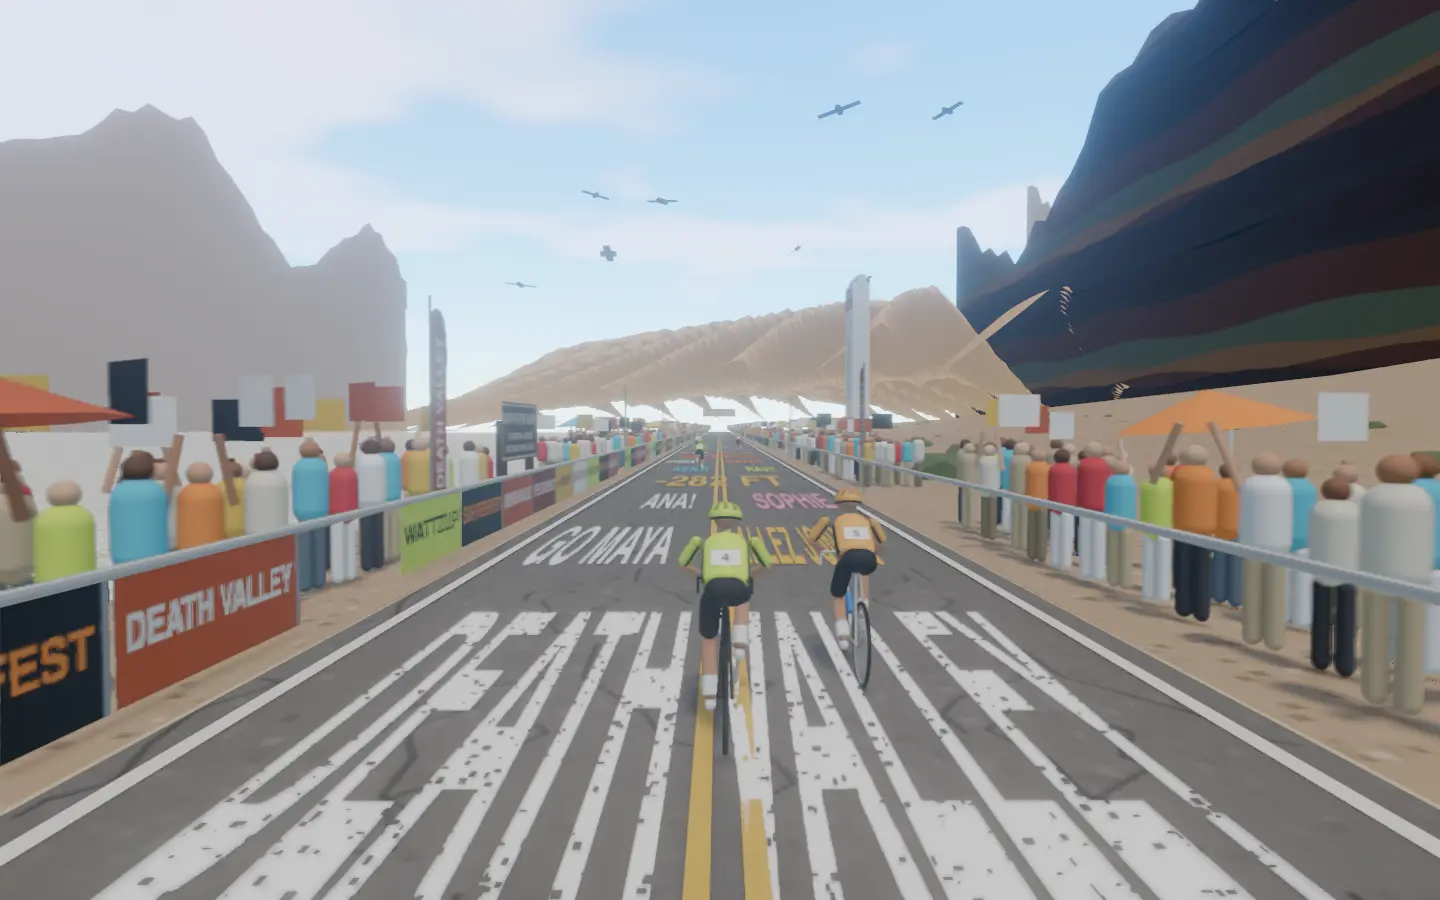
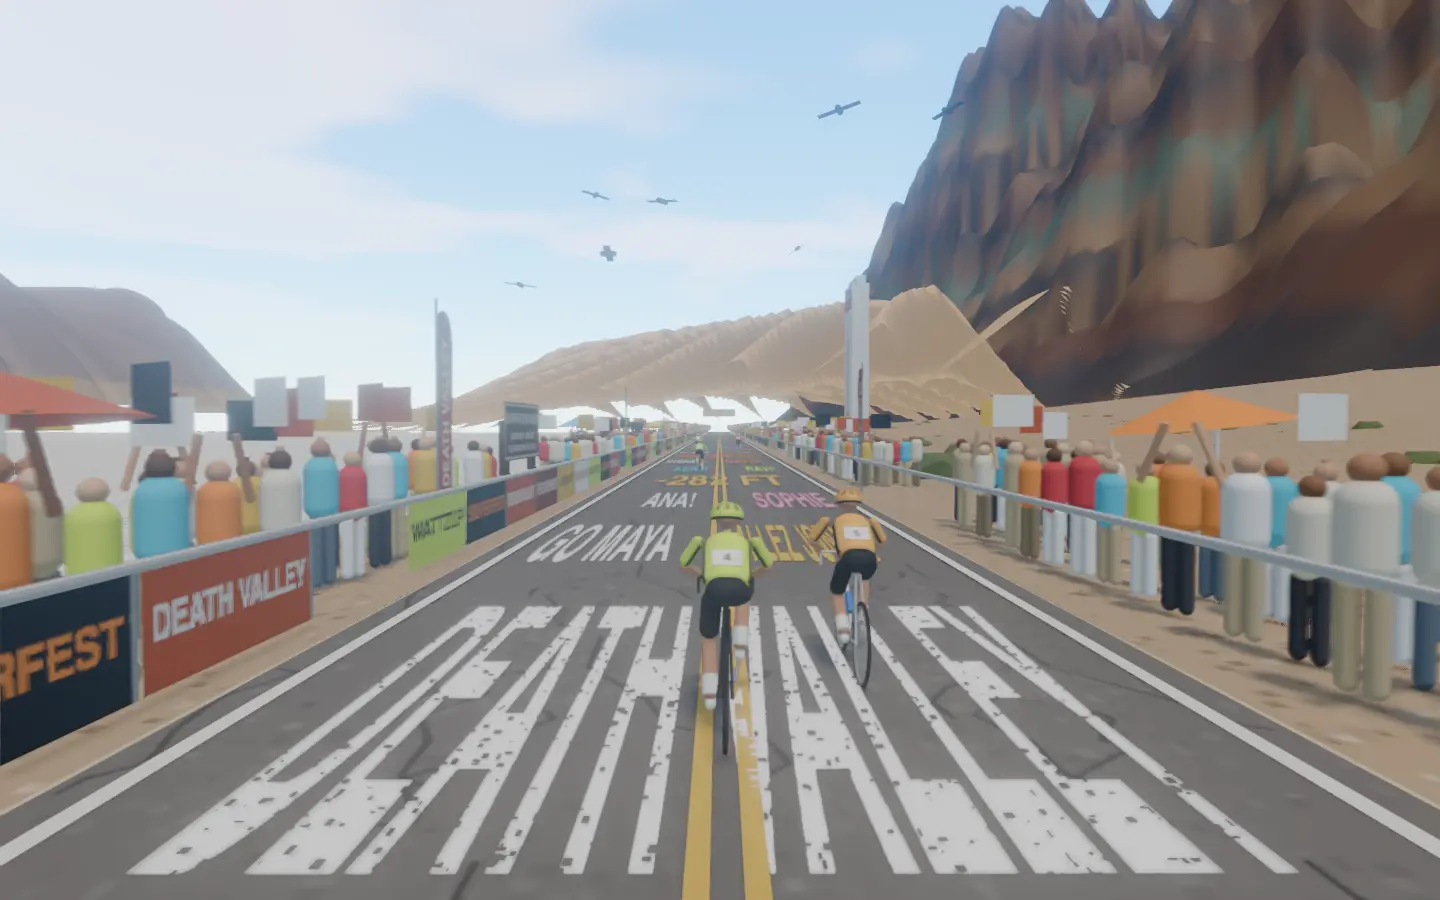
Model Death Valley's ranges as terrain, not silhouettes
The Black Mountains and the Panamint Range become heightfields with
ridges, canyons, rock banded by height and snow on Telescope Peak.

diff --git a/frontend/projects/wattzup/src/app/core/world-deathvalley.ts b/frontend/projects/wattzup/src/app/core/world-deathvalley.ts
@@ -516,47 +516,66 @@ export class DeathValleyStreet implements SceneStreet {
       shape.lineTo(to, -20);
       return new ShapeGeometry(shape);
     };
-    // The Black Mountains, running along the right from behind the rider to far ahead.
-    const strata = this.track(strataTexture());
-    strata.wrapS = RepeatWrapping;
-    strata.wrapT = RepeatWrapping;
-    strata.repeat.set(1 / 700, 1 / 420);
-    const black = range(-1200, 4200, 620, 420);
-    black.rotateY(Math.PI / 2);
-    black.translate(1100, -4, 800);
-    const near = hazedMaterial(this.disposables, haze, 0xd8ccc0, 0.3, {
-      map: strata,
-      emissiveMap: strata,
-      emissive: new Color(0x8a7a6a),
-      emissiveIntensity: 0.5,
-      side: DoubleSide,
-    });
+    // The Black Mountains along the right: a steep front climbing from the fans to ridges near
+    // 1,000 m, cut by canyons, its rock banded in charcoal, rust, ochre and the odd green.
+    const strata = [
+      '#3a3230',
+      '#5a3a2a',
+      '#7a5a3a',
+      '#4a4038',
+      '#8a6a48',
+      '#5a6a58',
+      '#6a4a34',
+    ].map((hex) => new Color(hex));
+    const black = this.massif(
+      [980, -1300],
+      [1600, 4200, 110, 210],
+      (x, z) => {
+        const front = smooth((x - 180) / 560);
+        const ridge = 0.62 + 0.22 * Math.sin(z / 410) + 0.16 * Math.sin(z / 137 + 1.3);
+        const canyon = (1 - Math.abs(Math.sin(z / 95 + Math.sin(x / 140) * 0.9))) ** 6;
+        const rough = 0.04 * Math.sin(x / 23 + z / 31) + 0.03 * Math.sin(z / 17 - x / 41);
+        return front * 1050 * (ridge - 0.45 * canyon * (1 - front * 0.5) + rough);
+      },
+      (y, z) => strata[Math.floor((y + 40 * Math.sin(z / 230) + 400) / 55) % strata.length]!,
+    );
     // A second, higher wall behind, paler for its distance.
     const back = range(-1200, 6200, 1300, 520);
     back.rotateY(Math.PI / 2);
-    back.translate(2200, -4, 800);
-    this.disposables.push(black, back);
-    h.add(new Mesh(black, near), new Mesh(back, this.distant(haze, 0x8a7a78, 0.5)));
-    // The Panamint Range across the basin on the left, Telescope Peak rising above it.
-    const panamint = range(-1200, 14000, 900, 500, 2000);
-    panamint.rotateY(Math.PI / 2);
-    panamint.translate(-2400, -4, 1200);
-    const snow = new Shape();
-    snow.moveTo(1640, 1500);
-    snow.lineTo(1860, 1880);
-    snow.lineTo(2000, 2050);
-    snow.lineTo(2140, 1880);
-    snow.lineTo(2380, 1500);
-    snow.lineTo(2160, 1640);
-    snow.lineTo(2000, 1560);
-    snow.lineTo(1840, 1640);
-    const cap = new ShapeGeometry(snow);
-    cap.rotateY(Math.PI / 2);
-    cap.translate(-2390, -4, 1200);
-    this.disposables.push(panamint, cap);
+    back.translate(2400, -4, 800);
+    this.disposables.push(back);
     h.add(
-      new Mesh(panamint, this.distant(haze, 0x9a8a9e, 0.45)),
-      new Mesh(cap, this.distant(haze, 0xffffff, 0.15)),
+      new Mesh(
+        black,
+        hazedMaterial(this.disposables, haze, 0xffffff, 0.12, { vertexColors: true }),
+      ),
+      new Mesh(back, this.distant(haze, 0x8a7a78, 0.5)),
+    );
+    // The Panamint Range across the basin on the left: fans rising to a long crest, Telescope
+    // Peak lifted above it, its summit snowfields white.
+    const rock = new Color(0x9a8a8e);
+    const scree = new Color(0xb8a48a);
+    const snow = new Color(0xffffff);
+    const panamint = this.massif(
+      [-4600, -2000],
+      [2600, 7000, 120, 220],
+      (x, z) => {
+        const rise = smooth((-x - 3000) / 1400);
+        const crest = 1050 + 200 * Math.sin(z / 620) + 90 * Math.sin(z / 210 + 2);
+        const peak = 700 * Math.exp(-(((z + 900) / 650) ** 2)) * smooth((-x - 3700) / 700);
+        const canyon = (1 - Math.abs(Math.sin(z / 160 + Math.sin(x / 210)))) ** 6;
+        return rise * (crest - 380 * canyon * (1 - rise * 0.6)) + peak;
+      },
+      (y, z) => {
+        if (y > 1480 + 50 * Math.sin(z / 47)) return snow;
+        return y < 260 ? scree : rock;
+      },
+    );
+    h.add(
+      new Mesh(
+        panamint,
+        hazedMaterial(this.disposables, haze, 0xffffff, 0.4, { vertexColors: true }),
+      ),
     );
     // The dunes ahead, rising out of the heat at the end of the road: transverse ridges driven by
     // the wind, each a long gentle windward slope up to a knife-edge crest and a steep slip face
@@ -611,6 +630,35 @@ export class DeathValleyStreet implements SceneStreet {
     h.add(new Mesh(sheen, this.mirage));
   }
 
+  /**
+   * A mountain block as a heightfield `width` by `depth` metres centred on (x, z), with `across`
+   * by `along` cells: `height` raises each vertex at its place beside the road, and `colour`
+   * paints it by its height, so the rock bands and the snow follow the terrain.
+   */
+  private massif(
+    [cx, cz]: readonly [number, number],
+    [width, depth, across, along]: readonly [number, number, number, number],
+    height: (x: number, z: number) => number,
+    colour: (y: number, z: number) => Color,
+  ): PlaneGeometry {
+    const field = new PlaneGeometry(width, depth, across, along);
+    field.rotateX(-Math.PI / 2);
+    field.translate(cx, 0, cz);
+    const position = field.getAttribute('position');
+    const paint = new Float32Array(position.count * 3);
+    for (let i = 0; i < position.count; i++) {
+      const x = position.getX(i);
+      const z = position.getZ(i);
+      const y = Math.max(0, height(x, z));
+      position.setY(i, y - 4);
+      colour(y, z).toArray(paint, i * 3);
+    }
+    field.setAttribute('color', new BufferAttribute(paint, 3));
+    field.computeVertexNormals();
+    this.disposables.push(field);
+    return field;
+  }
+
   /** A far range's silhouette: its colour hazed by distance, lit evenly so no face falls dark. */
   private distant(haze: Color, hex: number, amount: number): MeshStandardMaterial {
     const material = hazedMaterial(this.disposables, haze, hex, amount, { side: DoubleSide });
@@ -663,25 +711,6 @@ function gravelTexture(): CanvasTexture {
       g.fillStyle = random() < 0.5 ? 'rgba(70,50,36,0.55)' : 'rgba(240,226,200,0.6)';
       const r = 1 + random() * 2.5;
       g.fillRect(random() * 128, random() * 128, r, r * 0.8);
-    }
-  });
-}
-
-/** The Black Mountains' rock: bands of charcoal, rust, ochre and the odd green of Artist's Palette. */
-function strataTexture(): CanvasTexture {
-  return canvasTexture(256, 256, (g) => {
-    const bands = ['#3a3230', '#5a3a2a', '#7a5a3a', '#4a4038', '#8a6a48', '#5a6a58', '#3a2a24'];
-    const random = seeded(6461);
-    for (let y = 0; y < 256;) {
-      const tall = 8 + random() * 28;
-      g.fillStyle = bands[Math.floor(random() * bands.length)]!;
-      g.beginPath();
-      g.moveTo(0, y);
-      for (let x = 0; x <= 256; x += 32) g.lineTo(x, y + Math.sin(x / 40 + y) * 6);
-      g.lineTo(256, y + tall + 8);
-      g.lineTo(0, y + tall + 8);
-      g.fill();
-      y += tall;
     }
   });
 }
@@ -750,4 +779,10 @@ function mirageTexture(): CanvasTexture {
     g.fillStyle = along;
     g.fillRect(0, 0, 64, 256);
   });
+}
+
+/** Eases from 0 below t = 0 up to 1 above t = 1. */
+function smooth(t: number): number {
+  const u = Math.min(1, Math.max(0, t));
+  return u * u * (3 - 2 * u);
 }

diff --git a/docs/class-worlds.md b/docs/class-worlds.md
@@ -67,7 +67,7 @@ Every class in `frontend/public/classes.json`, with its World Ride scene. Render
 | 61 | 20 Minute Cardio: Lose Weight Fast | Santa Monica Pier | 80% | The beach bike path winds across the golden sand of Santa Monica toward the pier beneath a line of palms, past painted lifeguard towers and the surfers riding the breakers below the pilings, as the Pacific Park Ferris wheel turns over the pier in the late afternoon sun. The three-minute warm-up rolls past the first lifeguard towers, the long efforts of two and three minutes push along the sand under the palms, and the one-minute and half-minute surges sprint for the pier with the easy minutes spun beside the surf. |
 | 62 | 20 Minute HIIT | Edinburgh Fringe | 78% | The Royal Mile packed with street performers and posters in August festival season. |
 | 63 | 20 Min Cardio Spin Bike Workout | Lake Louise (concept) |  | Turquoise glacial lake beneath Rocky Mountain peaks; an easy shoreline road in Banff. |
-| 64 | Sufferfest 20 Minute Session | Death Valley | 78% | Badwater Road runs below sea level across the floor of Death Valley in the blazing midday heat, the white salt flats of Badwater Basin glaring on the left beneath the Panamint Range and the dark Black Mountains rising on the right, toward golden dunes shimmering in the heat haze. The five-minute warm-up rolls past the salt pans at 282 feet below sea level, the half-minute and one-minute surges attack the shimmer over the flats, and the effort of two and a quarter minutes grinds toward the dunes before the two-minute cool-down spins out past the giant thermometer. |
+| 64 | Sufferfest 20 Minute Session | Death Valley | 80% | Badwater Road runs below sea level across the floor of Death Valley in the blazing midday heat, the white salt flats of Badwater Basin glaring on the left beneath the Panamint Range and the dark Black Mountains rising on the right, toward golden dunes shimmering in the heat haze. The five-minute warm-up rolls past the salt pans at 282 feet below sea level, the half-minute and one-minute surges attack the shimmer over the flats, and the effort of two and a quarter minutes grinds toward the dunes before the two-minute cool-down spins out past the giant thermometer. |
 | 65 | 20 Minute Fat Burning Workout | North Shore, Oahu | 72% | Big-wave beaches and shrimp trucks along Kamehameha Highway. |
 | 66 | 22 Minute Strength Intervals | Bealach na Bà (concept) |  | A single-track Highland road climbing above sea lochs through heather. |
 | 67 | Progressive Efforts on the Passo Gardena | Passo Gardena (concept) |  | Switchbacks beneath the Sella towers, efforts building toward the pass. |

diff --git a/docs/detailed-designs/world-ride/draw-class-scene/README.md b/docs/detailed-designs/world-ride/draw-class-scene/README.md
@@ -609,7 +609,7 @@ None.
   - the event's barriers (DEATH VALLEY, SUFFERFEST, WATTZUP, BADWATER, -282 FT, FEEL THE HEAT), the kit's feather flags along them, two banners across the road (SUFFERFEST · DEATH VALLEY, WATTZUP · BADWATER -282 FT), and fans in white, khaki and hi-vis braving the heat, packed along the barriers with a gap every 40 m, a quarter of them with arms up or a flag, under white, orange and yellow sun umbrellas;
   - on the left the white salt crust of Badwater Basin cracked into polygons (the kit's salt crust, moved from Bonneville), glaring in the overhead sun out across the valley with the ground plane sunk 2 m below it (`sink`), the aid tents (the kit's pop-up tents: WATER, ICE, SUFFERFEST, WATTZUP) every 120 m, and the park's brown sign, BADWATER BASIN · ELEVATION −282 FEET;
   - on the right the gravel fans climbing toward the mountains, scattered with creosote bushes, and the giant thermometer, a white pillar 12 m tall reading 120°F;
-  - beyond, hazed by hand: the dark, banded walls of the Black Mountains along the right, a paler wall behind them, the Panamint Range across the salt on the left with Telescope Peak capped in snow, the golden dunes rising ahead, transverse ridges up to 100 m tall, each a long sunlit windward slope to a knife-edge crest and a steep slip face in shade (vertex-coloured), heaped into great mounds, and a mirage wavering on the road before them. Eight ravens wheel in slow circles 14 to 30 m over the road ahead, beating their wings now and then. Everything along the road is hidden past 218 m.
+  - beyond, hazed by hand: the Black Mountains along the right as a heightfield (a steep front climbing from the fans to ridges near 1,000 m, cut by canyons, its rock banded by height in charcoal, rust, ochre and the odd green), a paler wall behind them, the Panamint Range as a heightfield across the salt on the left (fans rising to a long crest, Telescope Peak lifted above it, white above 1,480 m), the golden dunes rising ahead, transverse ridges up to 100 m tall, each a long sunlit windward slope to a knife-edge crest and a steep slip face in shade (vertex-coloured), heaped into great mounds, and a mirage wavering on the road before them. Eight ravens wheel in slow circles 14 to 30 m over the road ahead, beating their wings now and then. Everything along the road is hidden past 218 m.
 
   `lay`, `place` and `setTime` recycle it along a 480 m loop.
 - **Atacama Desert (`core/world-atacama.ts`).** For `atacama`, the Salar de Atacama late on a cloudless afternoon:
